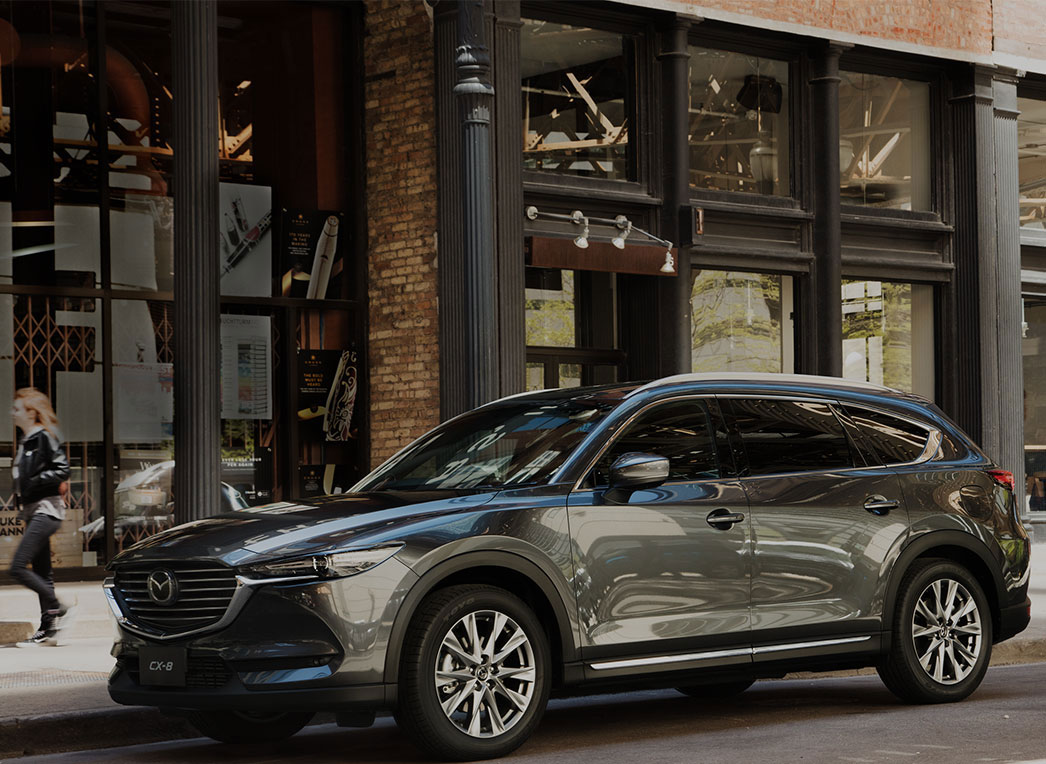
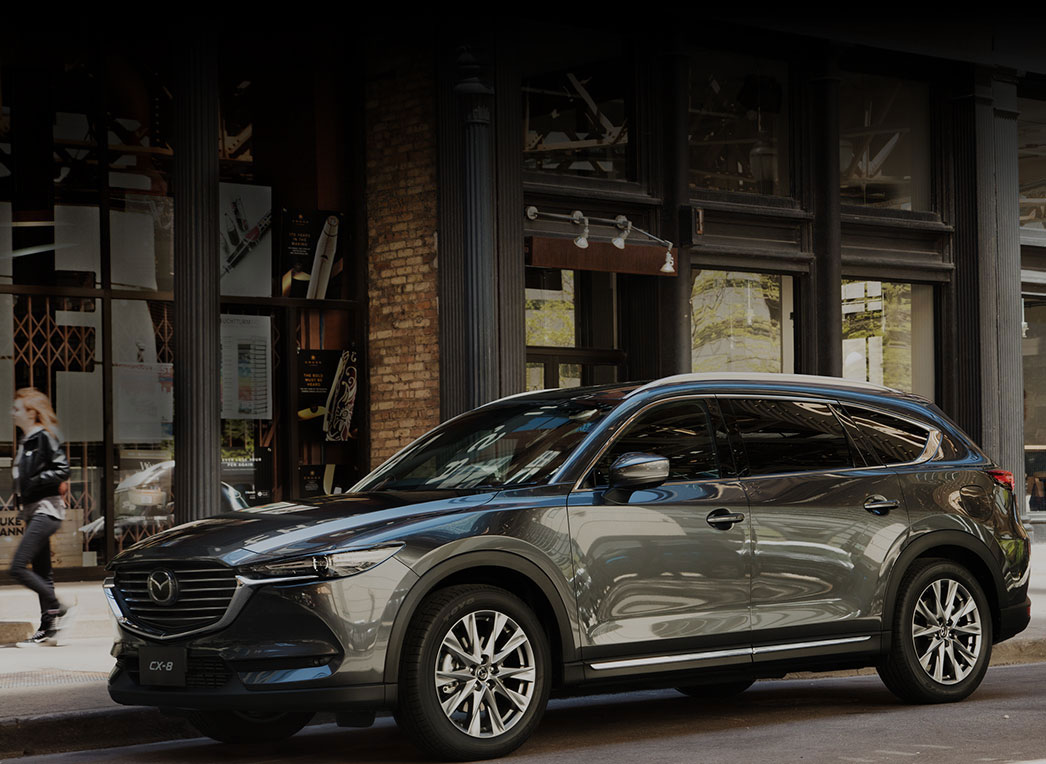
quyendn

Changed region(s): [[0.2753, 0.0, 1.0, 0.3312], [0.0, 0.0, 0.2753, 0.301], [0.0612, 0.0, 0.1224, 0.0301]]

diff --git a/mazda/css/styles.css b/mazda/css/styles.css
@@ -173,8 +173,9 @@ h1, h2, h3{
 	}
 	/**/
 #slide-wrap{
-	background:url(../img/cx8.jpg) no-repeat 50% 50%;
+	background:url(../img/cx8.jpg) no-repeat 50% 100%;
 	padding:60px 0;
+	background-size:100% auto;
 	}
 #slide-wrap h1, #slide-wrap h2{
 	color:#e6e6e6;
@@ -349,7 +350,10 @@ img{
 	
 	
 	}
+@media (max-width:991px){
+	}
 @media (max-width:768px){
+	
 	#header, #header .affix{
 		min-height:70px;
 		}
@@ -361,10 +365,10 @@ img{
 		height:auto;
 		}
 	#slide-wrap{
-		background: url(../img/cx8_mb.jpg) no-repeat 50% 50%;
-		background-size: 100% auto;
+		background: url(../img/cx8_mb.jpg) no-repeat 50% 100%;
+		background-size:100% auto;
 		padding:15px 0 60px 0;
-		
+		height:400px;
 		}
 	#slide-wrap span{
 		font-size:24px;
